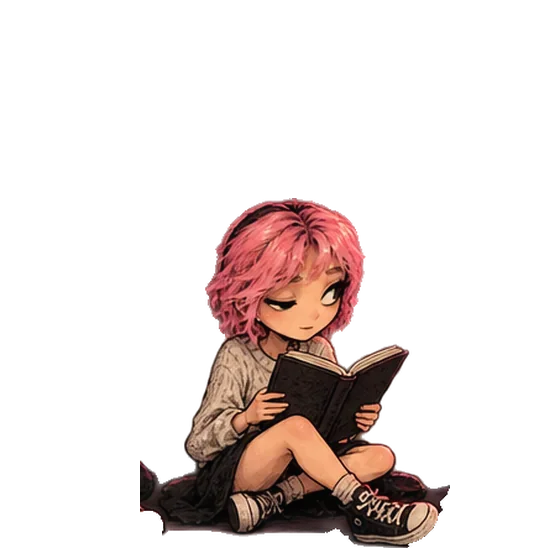
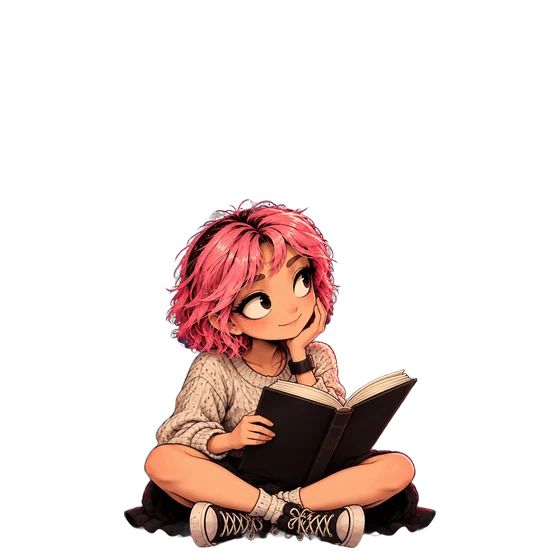
Add files via upload

Changed region(s): [[0.2125, 0.3339, 0.8196, 1.0]]

diff --git a/index.html b/index.html
@@ -2277,11 +2277,11 @@ const BUDDY_FRAMES = {
   stef: { settle: true, frames: ["stef-sit1.webp", "stef-sit3.webp", "stef-sit5.webp", "stef-sit4.webp", "stef-sit2.webp"], hold: 3000, fade: 600, glow: "rgba(255, 120, 170, .28)", shadow: 2,
     acts: {
       enter: { frames: ["stef-stand1.webp", "stef-stand2.webp", "stef-stand3.webp", "stef-stand6.webp", "stef-stand1.webp", "stef-stand2.webp", "stef-stand3.webp", "stef-stand6.webp"], fps: 4, loops: 1, walk: true },
-      tap: { pick: ["stef-face1.webp", "stef-face3.webp", "stef-face5.webp", "stef-face8.webp", "stef-stand5.webp", "stef-stand3.webp"], hold: 1500 },
-      ok: { pick: ["stef-stand3.webp", "stef-stand5.webp", "stef-face1.webp", "stef-face3.webp", "stef-face8.webp", "stef-face5.webp"] },
-      streak: { frames: ["stef-stand4.webp", "stef-stand5.webp", "stef-stand4.webp", "stef-stand3.webp"], fps: 3, loops: 0 },
+      tap: { pick: ["stef-stand9.webp", "stef-face1.webp", "stef-face3.webp", "stef-face5.webp", "stef-face8.webp", "stef-stand5.webp", "stef-stand3.webp"], hold: 1500 },
+      ok: { pick: ["stef-stand9.webp", "stef-stand3.webp", "stef-stand5.webp", "stef-face1.webp", "stef-face3.webp", "stef-face8.webp", "stef-face5.webp"] },
+      streak: { frames: ["stef-stand4.webp", "stef-stand9.webp", "stef-stand5.webp", "stef-stand4.webp", "stef-stand3.webp"], fps: 3, loops: 0 },
       master: { frames: ["stef-stand4.webp", "stef-face8.webp", "stef-stand5.webp"], fps: 2.5, loops: 0 },
-      done: { frames: ["stef-stand4.webp", "stef-stand3.webp", "stef-stand5.webp", "stef-stand4.webp", "stef-face3.webp"], fps: 2.5, loops: 0 },
+      done: { frames: ["stef-stand4.webp", "stef-stand9.webp", "stef-stand3.webp", "stef-stand5.webp", "stef-stand4.webp", "stef-face3.webp"], fps: 2.5, loops: 0 },
       bad: { pick: ["stef-face6.webp", "stef-face2.webp", "stef-face7.webp"] },
     } },
   mario: { settle: true, frames: ["mario-sit2.webp", "mario-sit6.webp", "mario-sit5.webp"], hold: 3000, fade: 600, glow: "rgba(255, 110, 60, .26)", shadow: 2,

diff --git a/sw.js b/sw.js
@@ -1,5 +1,5 @@
 // Offline support: the app shell is cached; pages and question sets prefer fresh copies when online.
-const VERSION = "md-2026-10-23-2";
+const VERSION = "md-2026-10-23-3";
 const CORE = ["./", "index.html", "manifest.webmanifest", "apple-touch-icon.png", "icon-192.png", "icon-512.png"];
 self.addEventListener("install", (e) => { e.waitUntil(caches.open(VERSION).then((c) => c.addAll(CORE)).then(() => self.skipWaiting())); });
 self.addEventListener("activate", (e) => { e.waitUntil(caches.keys().then((ks) => Promise.all(ks.filter((k) => k !== VERSION).map((k) => caches.delete(k)))).then(() => self.clients.claim())); });
